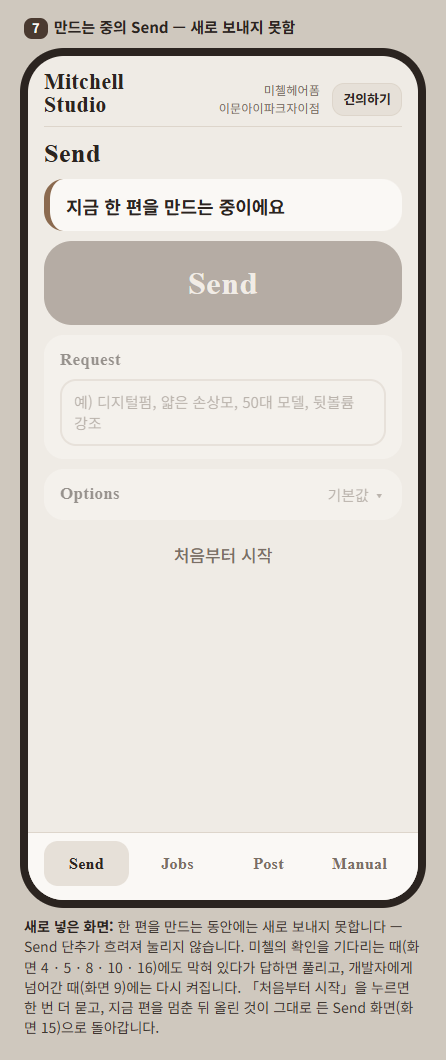
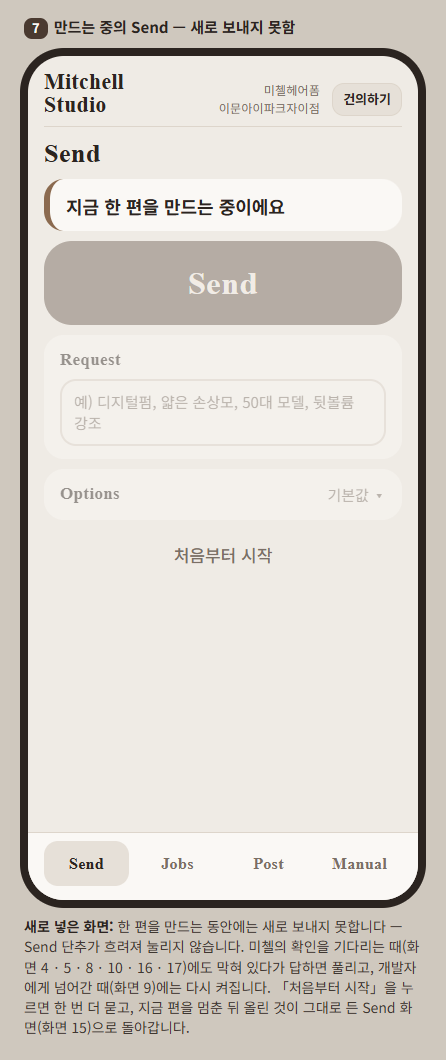
S8_UIUX_REWORK: 덧붙임 6 — 새 화면 17 '얼굴이 보이는 사진이 없을 때'(AI 얼굴 없이 갈게요 → · 더 보내기) · 확인을 기다리는 화면 목록에 17 · s17 · s07 · README · 반환

Changed region(s): [[0.0583, 0.9028, 0.9327, 0.9962]]

diff --git a/projects/btsr/roles/rsch/sub/s8_uiux_rework/UIUX_웹앱1차시안_3판_CLAUDE.html b/projects/btsr/roles/rsch/sub/s8_uiux_rework/UIUX_웹앱1차시안_3판_CLAUDE.html
@@ -31,7 +31,7 @@ svg { display:block; }
 .shot .hd .no { display:inline-block; background:var(--accent); color:var(--onaccent); border-radius:8px; padding:1px 8px; margin-right:6px; font-size:13px; }
 .shot .ft { font-size:14px; color:#3f3731; margin:8px 4px 0; min-height:66px; }
 .shot .ft b { color:var(--ink); }
-/* 한 화면만 보기: 주소 끝에 #s1 … #s16 */
+/* 한 화면만 보기: 주소 끝에 #s1 … #s17 */
 body:has(.shot:target) .top, body:has(.shot:target) .shot:not(:target) { display:none; }
 body:has(.shot:target) .grid { display:block; padding:16px 20px 20px; }
 
@@ -297,7 +297,7 @@ ol.scr7 { margin:0; padding-left:22px; display:flex; flex-direction:column; gap:
     <div class="btn line">처음부터 시작</div>
   </div>
   <div class="tabs"><span class="on">Send</span><span>Jobs</span><span>Post</span><span>Manual</span></div></div>
-  <div class="ft"><b>새로 넣은 화면:</b> 한 편을 만드는 동안에는 새로 보내지 못합니다 — Send 단추가 흐려져 눌리지 않습니다. 미첼의 확인을 기다리는 때(화면 4 · 5 · 8 · 10 · 16)에도 막혀 있다가 답하면 풀리고, 개발자에게 넘어간 때(화면 9)에는 다시 켜집니다. 「처음부터 시작」을 누르면 한 번 더 묻고, 지금 편을 멈춘 뒤 올린 것이 그대로 든 Send 화면(화면 15)으로 돌아갑니다.</div>
+  <div class="ft"><b>새로 넣은 화면:</b> 한 편을 만드는 동안에는 새로 보내지 못합니다 — Send 단추가 흐려져 눌리지 않습니다. 미첼의 확인을 기다리는 때(화면 4 · 5 · 8 · 10 · 16 · 17)에도 막혀 있다가 답하면 풀리고, 개발자에게 넘어간 때(화면 9)에는 다시 켜집니다. 「처음부터 시작」을 누르면 한 번 더 묻고, 지금 편을 멈춘 뒤 올린 것이 그대로 든 Send 화면(화면 15)으로 돌아갑니다.</div>
 </div>
 
 <!-- ───────── 7 막힘 ① ───────── -->
@@ -526,6 +526,32 @@ ol.scr7 { margin:0; padding-left:22px; display:flex; flex-direction:column; gap:
   </div>
   <div class="tabs"><span>Send</span><span class="on">Jobs<span class="badge">1</span></span><span>Post</span><span>Manual</span></div></div>
   <div class="ft"><b>새로 넣은 화면:</b> 원고를 다 쓰면 미첼이 읽고 고릅니다 — 차례로는 화면 3과 4 사이의 걸음입니다. 「이 원고로 갈게요 →」면 이어서 만들고, 「고칠 점 적기」면 원고를 고쳐 다시 보여 줍니다. 원고 아래 숫자는 글자 수입니다.</div>
+</div>
+
+<!-- ───────── 17 얼굴이 보이는 사진이 없을 때 ───────── -->
+<div class="shot" id="s17">
+  <div class="hd"><span class="no">17</span>얼굴이 보이는 사진이 없을 때</div>
+  <div class="phone"><div class="scr">
+    <div class="brand"><div class="wm">Mitchell<br>Studio</div><div class="br">미첼헤어폼<br>이문아이파크자이점</div><span class="fbk">건의하기</span></div>
+    <div class="jt"><span class="ti">디지털펌 · 뒷볼륨</span><span class="gear">옵션 바꾸기</span></div>
+    <div class="nowband w">
+      <div class="l1">확인해 주세요</div>
+      <div class="barw"><div class="barf" style="width:22%"></div></div>
+      <div class="pg"><span class="eh">Intake</span><span>2 / 9</span></div>
+    </div>
+    <div class="card">
+      <div class="thumbs" style="margin-top:0">
+        <div class="th"><svg viewBox="0 0 90 160" preserveAspectRatio="xMidYMid slice"><use href="#p-after"/></svg><i>시술 후</i></div>
+        <div class="th"><svg viewBox="0 0 90 160" preserveAspectRatio="xMidYMid slice"><use href="#p-after"/></svg><i>시술 후</i></div>
+        <div class="th"><svg viewBox="0 0 90 160" preserveAspectRatio="xMidYMid slice"><use href="#p-before"/></svg><i>시술 전</i></div>
+        <div class="th none"><i>얼굴 사진<br>없음</i></div>
+      </div>
+      <div style="font-size:18px;font-weight:700;margin-top:8px">얼굴이 보이는 시술 후 사진이 없어요</div>
+      <div class="row"><div class="btn" style="flex:1.9;font-size:16px;padding:13px 6px">AI 얼굴 없이 갈게요 →</div><div class="btn soft" style="font-size:16px;padding:13px 6px">더 보내기</div></div>
+    </div>
+  </div>
+  <div class="tabs"><span>Send</span><span class="on">Jobs<span class="badge">1</span></span><span>Post</span><span>Manual</span></div></div>
+  <div class="ft"><b>새로 넣은 화면:</b> 시술 후 사진이 뒷모습뿐이면 웹앱은 앞모습을 지어내지 않고 미첼에게 알립니다. 「AI 얼굴 없이 갈게요 →」면 AI 얼굴 장면과 AI 표시 없이 만들고 화면 5는 건너뜁니다. 「더 보내기」로 얼굴이 보이는 사진을 더하면 AI 얼굴을 만들어 화면 5에서 확인받습니다. 차례로는 화면 4와 같은 자리(자료를 받은 바로 뒤)입니다.</div>
 </div>
 
 </div>

diff --git a/projects/btsr/roles/rsch/sub/s8_uiux_rework/반환.md b/projects/btsr/roles/rsch/sub/s8_uiux_rework/반환.md
@@ -1,7 +1,7 @@
 # 반환 — MITCHELL_STUDIO/BTSR/RSCH/S8_UIUX_REWORK
 
-- 쓴 때: 2026-11-21 15:04 KST · 덧붙임 2를 넣어 고친 때: 2026-11-21 15:17 KST · 덧붙임 3을 넣어 고친 때: 2026-11-21 15:32 KST · 덧붙임 4를 넣어 고친 때: 2026-11-21 15:38 KST · 덧붙임 5를 넣어 고친 때: 2026-11-21 15:43 KST · 연 이: PRIMARY Paseo a97bebab · 패킷: `OPEN_PACKET.md`(8bd51fa · 덧붙임 d069374 · 덧붙임 2 ed67f92 · 덧붙임 3 7c55ad5 · 덧붙임 4 5363184 · 덧붙임 5 2b3b203)
-- 낸 것: `UIUX_웹앱1차시안_3판_CLAUDE.html`(화면 16개 · `#s1`…`#s16`) · `s01.png`–`s16.png` · `README.md` · 이 글
+- 쓴 때: 2026-11-21 15:04 KST · 덧붙임 2를 넣어 고친 때: 2026-11-21 15:17 KST · 덧붙임 3을 넣어 고친 때: 2026-11-21 15:32 KST · 덧붙임 4를 넣어 고친 때: 2026-11-21 15:38 KST · 덧붙임 5를 넣어 고친 때: 2026-11-21 15:43 KST · 덧붙임 6을 넣어 고친 때: 2026-11-21 16:18 KST · 연 이: PRIMARY Paseo a97bebab · 패킷: `OPEN_PACKET.md`(8bd51fa · 덧붙임 d069374 · 덧붙임 2 ed67f92 · 덧붙임 3 7c55ad5 · 덧붙임 4 5363184 · 덧붙임 5 2b3b203 · 덧붙임 6 13a45dd)
+- 낸 것: `UIUX_웹앱1차시안_3판_CLAUDE.html`(화면 17개 · `#s1`…`#s17`) · `s01.png`–`s17.png` · `README.md` · 이 글
 - 바탕: 시안 2판(`sub/s6_uiux_draft/v2/` — 고치지 않음) · 지금 웹앱 `app/webapp/static/app.html`(제품 저장소 로컬 `origin/main` 3072e7e를 `git show`로만 봄)
 - 커밋: 첫 판 29cd237(화면 13개) → 덧붙임을 넣은 판 fc31856(화면 14개) → 덧붙임 2를 넣은 판(화면 2 · 3 · 10만 고침 · 번호 그대로)이 그 다음 커밋
 
@@ -14,6 +14,7 @@
 | 3 | "보내기가 아니고 Send로 해주세요." | 큰 단추 `Send`. 카드 머리 '다 됨'은 뺌(화면 10 · 11은 바 아래 `Done`). 한글 견줘 보기 뺌. |
 | 4 | "작업 목록 없습니다. 하나씩만하세요. 진행중엔 그냥 프로그레스 바" | 작업 목록 화면 뺌. Jobs = 지금 만드는 한 편. 만드는 중 = 제목 · 하는 일 한 줄 · 바 · 바 아래 단계 이름과 몇째(예: `Voice · Music · Fit · Export` 7 / 9). 진행 기록 · 단계 줄은 모든 화면에서 뺌. 확인이 필요하면 같은 화면에 물음 한 줄 + 단추. |
 | 5 | "도대체 알림 설명화면은 왜 있는건가요?" · 14:59:10 "알림 설정은 따로 메뉴얼로 빼시고요." | 알림 화면 뺌. 화면 밖 설명과 README에 "알림 켜는 법은 Manual 탭" 한 줄. |
+| 덧붙임 6 | 16:14:32 "안올렸으면 알려주기만 하고 확인 받으면 ai 얼굴없이 진행하는게 맞지 않나요" (PRIMARY 패킷 덧붙임 6 · 요청서 003 24번) | **화면 17 '얼굴이 보이는 사진이 없을 때'를 새로 넣음** — 화면 4와 같은 꼴 · 같은 바 자리(`Intake` 2 / 9): 제목 줄 · 현황 「확인해 주세요」 + 바 · 올린 것 작은 그림(시술 후 둘 · 시술 전 하나 · 점선 칸 '얼굴 사진 없음') · 한 줄 「얼굴이 보이는 시술 후 사진이 없어요」 · 단추 「AI 얼굴 없이 갈게요 →」(주)와 「더 보내기」. 화면 속 설명 글 없음. Jobs 탭 빨간 숫자 1. 밖 설명은 패킷 글대로(앞모습을 지어내지 않음 · AI 얼굴 장면과 AI 표시 없이 만들고 화면 5를 건너뜀 · 더 보내면 화면 5에서 확인 · 화면 4와 같은 자리). 화면 7의 밖 설명과 README의 확인을 기다리는 화면 목록을 4 · 5 · 8 · 10 · 16 · 17로. `s17` 찍고 `s07` 다시 찍음. README에 여덟째 줄과 화면 17 그림 줄. 앞 화면 번호(1 – 16)는 그대로. |
 | 덧붙임 5 | 15:27:23 "변경된 기획에 맞춰 시안도 수정요청 하세요." (PRIMARY 패킷 덧붙임 5 · 요구 2.2판 R2.5 · 결정 19 · 요청서 003 19번 라) | **화면 16 '원고 확인'을 새로 넣음** — 화면 5 · 10의 확인 화면 꼴: 제목 줄 · 현황 「확인해 주세요」 + 바(`Script` 3 / 9) · 원고 칸(번호 붙은 일곱 줄 — 지어낸 예시 · 그 아래 글자 수 `85글자`) · 단추 「이 원고로 갈게요 →」(주)와 「고칠 점 적기」. 화면 속 설명 글 없음. Jobs 탭 빨간 숫자 1. 밖 설명에 '차례로는 화면 3과 4 사이'. 화면 7의 밖 설명에서 확인을 기다리는 화면 목록을 4 · 5 · 8 · 10 · 16으로. `s16` 찍고 `s07` 다시 찍음. README에 일곱째 줄과 화면 16 그림 줄. 앞 화면 번호(1 – 15)는 그대로. |
 | 덧붙임 4 | 15:34:04 "그만두기가 아니라 처음부터 하기로 해야 되지 않을까요" · 15:35:45 "네" (PRIMARY 패킷 덧붙임 4 · 요청서 003 18번) | **화면 7:** 「처음부터 시작」 단추를 넣음 — 맨 아래에 글만 있는 가장 약한 꼴(지금 웹앱의 「그만 보내기」와 같은 꼴)로, 잘못 누르지 않게. Send 단추는 흐린 채 그대로. 밖 설명에 '누르면 한 번 더 묻고 · 지금 편을 멈추고 · 올린 것이 그대로 든 Send 화면(화면 15)으로' 한 줄. **화면 9:** 그림 그대로. 밖 설명을 '바로 다시 만듦'에서 'Send 화면으로 돌아감 · 올린 자료와 요청 글 그대로'로 고침. **화면 15(새로):** 켜진 Send 단추 · 올린 것 작은 그림 줄(영상 1 · 사진 3 · 그림마다 × · 끝에 + 칸) · 글이 든 Request · Options. 새 설명 글 없음. 한 번 더 묻는 창은 그리지 않음. `s07` · `s09` · `s15` 찍음. README 여섯째 줄을 18번에 맞춰 고치고 화면 15 그림 줄을 더함. 앞 화면 번호(1 – 14)는 그대로. |
 | 덧붙임 3 | 15:27:23 "변경된 기획에 맞춰 시안도 수정요청 하세요." · 15:17:53 "…미첼이 재작업을 할수 있어야지요…" · 15:18:31 "처음부터 시작이라던지요" (PRIMARY 패킷 덧붙임 3 · 요청서 003 16번) | 화면 9에 「처음부터 시작」 단추를 넣음 — 진한 주 단추로 위에, 「여기까지 만든 것 보기」는 옅게 아래에 그대로. 화면 속 설명 글은 더하지 않음. 화면 9 밖 설명을 16번에 맞춤('개발자가 본 뒤 멈춘 곳부터 이어 만듭니다'를 빼고 → 처음부터 다시 만듦 · Send 다시 켜짐 · 새로 보내면 멈춘 편은 미첼 화면에서 빠짐 · 개발자는 까닭만 봄). 화면 7 밖 설명에 '확인을 기다리는 때(화면 4 · 5 · 8 · 10)에도 막힘 · 답하면 풀림 · 개발자에게 넘어간 때(화면 9)는 다시 켜짐'을 넣고 '그 한 편이 끝나면 다시 켜집니다'는 뺌. `s09` · `s07` 다시 찍음(화면 7은 화면 그림은 그대로이고 그림에 함께 찍히는 밖 설명만 바뀜). README 바꾼 것에 여섯째 줄. |
@@ -22,8 +23,8 @@
 
 ## 뺀 화면 · 번호
 
-2판 6(작업 목록) · 8(휴대폰 알림) · 맨 아래 한글 견줘 보기(`s01_ko` · `s07_ko`)를 뺌. 화면 7 · 15 · 16은 새로 넣음.
-2판 → 3판: 1→1 · 2→2 · 3→3 · 4→4 · 5→5 · 7→6 · (새) 7 · 9→8 · 10→9 · 11→10 · 12→11 · 13→12 · 14→13 · 15→14 · (새) 15 · (새) 16(차례로는 3과 4 사이).
+2판 6(작업 목록) · 8(휴대폰 알림) · 맨 아래 한글 견줘 보기(`s01_ko` · `s07_ko`)를 뺌. 화면 7 · 15 · 16 · 17은 새로 넣음.
+2판 → 3판: 1→1 · 2→2 · 3→3 · 4→4 · 5→5 · 7→6 · (새) 7 · 9→8 · 10→9 · 11→10 · 12→11 · 13→12 · 14→13 · 15→14 · (새) 15 · (새) 16(차례로는 3과 4 사이) · (새) 17(차례로는 4와 같은 자리).
 
 ## 남긴 ? 표 셋과 풀이
 
@@ -52,17 +53,20 @@
 - 화면 5의 물음을 "머리 색과 모양이 같은가요?"로 — 2판 "…같은지 봐 주세요"를 물음 꼴로만 바꿈.
 - 화면 11 · 14 시트의 작은 「보내기」 단추는 지금 웹앱 그대로 둠(큰 단추만 Send). Send로 하라 하시면 바꿈.
 - Request 칸의 예시 글은 지금 웹앱 그대로 남기고, 옆의 "요청 사항 (안 적어도 돼요)"는 뺌.
-- Jobs 탭의 빨간 숫자는 미첼이 확인할 것이 있는 화면에만 1(화면 4 · 5 · 8 · 10 · 16).
+- Jobs 탭의 빨간 숫자는 미첼이 확인할 것이 있는 화면에만 1(화면 4 · 5 · 8 · 10 · 16 · 17).
 - 화면 9의 둘째 줄 "장면을 이어 붙이지 못했어요" · 화면 13의 "의견으로 받아 두었어요"는 현황으로 보고 남김.
 
 ## 확인하지 않은 것
 
 - 그림은 윈도우의 화면 없는 Chrome(446×1060)으로 찍음. 아이폰 사파리에서 보지 않음 — 글꼴이 다르게 보일 수 있음.
-- 첫 판 13개 그림은 모두 눈으로 봄(넘침 · 겹침 없음). 덧붙임 뒤 다시 찍은 14개 가운데는 새 화면 7과 끝 화면 14만 다시 봄 — 나머지는 번호만 바뀜. 덧붙임 2로 다시 찍은 셋(`s02` · `s03` · `s10`)과 덧붙임 3으로 다시 찍은 둘(`s07` · `s09`) · 덧붙임 4로 찍은 셋(`s07` · `s09` · `s15`) · 덧붙임 5로 찍은 둘(`s16` · `s07`)은 모두 봄. HTML을 넓은 창에서 한꺼번에 펼친 꼴은 찍어 보지 않음.
+- 첫 판 13개 그림은 모두 눈으로 봄(넘침 · 겹침 없음). 덧붙임 뒤 다시 찍은 14개 가운데는 새 화면 7과 끝 화면 14만 다시 봄 — 나머지는 번호만 바뀜. 덧붙임 2로 다시 찍은 셋(`s02` · `s03` · `s10`)과 덧붙임 3으로 다시 찍은 둘(`s07` · `s09`) · 덧붙임 4로 찍은 셋(`s07` · `s09` · `s15`) · 덧붙임 5로 찍은 둘(`s16` · `s07`) · 덧붙임 6으로 찍은 둘(`s17` · `s07`)은 모두 봄. HTML을 넓은 창에서 한꺼번에 펼친 꼴은 찍어 보지 않음.
 - 'n / 9'는 지금 웹앱의 단계 아홉(Send · Intake · Script · Face · Edit · Preview · Voice… · Done · Post)을 센 것. 바가 실제로 어떻게 차는지(단계마다 한 칸인지 · 단계 안에서도 움직이는지)는 정해진 바 없음.
 - 화면 12 · 13의 바에는 단계 이름 · 몇째를 적지 않음 — 고쳐 만들 때 · 규격을 맞출 때 바가 어디서부터 차는지 정해진 바 없음.
 - (덧붙임 3 · 4로 정해짐) 확인을 기다리는 때에는 Send가 막히고, 개발자에게 넘어간 때에는 다시 켜짐. 「처음부터 시작」 뒤는 화면 15. 개발자에게 넘어간 때 그냥 Send 탭을 눌러 본 화면(멈춘 편의 자료가 들어 있는지 · 비어 있는지)은 정해진 바 없어 그리지 않음.
 - 화면 15의 올린 것 꼴: 지금 웹앱에는 '고른 뒤 미리 보는' 꼴이 없음(고르면 바로 보내고, 보내는 중에는 파일 이름 · 크기 · 바 줄만 있음 — `app.html` `drawList`). 그래서 패킷대로 가장 단순한 작은 그림 줄 + × 로 그림. 더하는 길로 끝에 + 칸을 둔 것은 내 읽기('빼고 더해 다시 보낸다'에서) — Send 단추가 이 화면에서 '사진 고르기'가 아니라 '이대로 보내기'가 되는 것도 같은 읽기.
+- 화면 17: 단추 줄은 글이 긴 주 단추를 왼쪽에 넓게 둠(화면 5 · 16의 꼴) — 화면 4는 주 단추가 오른쪽이라 자리가 다름. 넷째 작은 그림 칸의 글 '얼굴 사진 없음'은 화면 4의 '시술 전 없음' 칸에 맞춘 것(내 읽기).
+- 화면 3 · 4의 밖 설명('AI 얼굴 사진을 안 올려도 묻지 않음' · 'AI 얼굴은 여기서도 묻지 않습니다')은 얼굴이 보이는 사진이 있을 때의 이야기로 그대로 둠 — 덧붙임 6이 건드리라 하지 않아 고치지 않았으나, 화면 17과 나란히 읽으면 헷갈릴 수 있음.
+- 시술 전 사진도 없고 얼굴이 보이는 사진도 없을 때 두 물음이 어떤 차례로 나오는지는 정해진 바 없어 그리지 않음.
 - 화면 16의 원고 꼴: 지금 웹앱의 원고 확인 칸(번호 붙은 줄 목록 + 글자 수 — `app.html` 577–581줄)을 따름. 지금 웹앱에 있는 설명 글 둘("마지막 줄 = 썸네일 문구 3개" · "공백·문장부호 빼고 센 글자 수 …")은 화면 속 설명이라 넣지 않았고, 그래서 **썸네일 문구 줄도 그리지 않음** — 원고 끝에 썸네일 문구 줄이 그대로 붙는지 · 붙으면 ? 표로 풀이를 달지는 정해진 바 없음. 글자 수는 지금 웹앱처럼 공백 · 문장부호를 빼고 센 값(85)이고, 상한(`/N`)은 정해진 값을 몰라 적지 않음.
 - 화면 16의 원고 일곱 줄은 지어낸 예시(손님 · 가게 사실 없음).
 - 화면 16에서 「고칠 점 적기」를 누른 뒤의 창은 그리지 않음(화면 11과 같은 꼴로 봄 — 내 읽기).

diff --git a/projects/btsr/roles/rsch/sub/s8_uiux_rework/README.md b/projects/btsr/roles/rsch/sub/s8_uiux_rework/README.md
@@ -8,9 +8,10 @@
 4. 작업 목록을 없앴습니다 — Jobs에는 지금 만드는 한 편만, 만드는 중에는 하는 일 한 줄과 **프로그레스 바**만 보입니다(결과 칸도 없음). 만드는 동안에는 새로 보내지 못합니다(화면 7).
 5. 알림 설명 화면을 뺐습니다 — 알림 켜는 법은 Manual 탭의 일입니다.
 6. **「처음부터 시작」** 단추를 넣었습니다 — 개발자에게 넘어간 화면(화면 9)과 막힌 Send 화면(화면 7)에. 누르면 한 번 더 묻고 Send 화면으로 돌아가며, 올린 사진 · 영상과 요청 글은 그대로 들어 있습니다(화면 15).
-7. **원고 확인** 화면을 더했습니다(화면 16) — 차례로는 화면 3과 4 사이의 걸음입니다. 미첼의 확인을 기다리는 화면은 4 · 5 · 8 · 10 · 16입니다.
+7. **원고 확인** 화면을 더했습니다(화면 16) — 차례로는 화면 3과 4 사이의 걸음입니다. 미첼의 확인을 기다리는 화면은 4 · 5 · 8 · 10 · 16 · 17입니다.
+8. **얼굴이 보이는 사진이 없을 때** 화면을 더했습니다(화면 17) — 웹앱은 앞모습을 지어내지 않고 미첼에게 알리며, 미첼이 확인하면 AI 얼굴 없이 만듭니다. 차례로는 화면 4와 같은 자리입니다.
 
-화면은 16개입니다(2판에서 둘을 빼고 화면 7 · 15 · 16을 새로 넣음). 그림 속 작업 · 글 · 사람은 모두 지어낸 예시입니다.
+화면은 17개입니다(2판에서 둘을 빼고 화면 7 · 15 · 16 · 17을 새로 넣음). 그림 속 작업 · 글 · 사람은 모두 지어낸 예시입니다.
 
 ![화면 1](s01.png)
 
@@ -43,3 +44,5 @@
 ![화면 15](s15.png)
 
 ![화면 16](s16.png)
+
+![화면 17](s17.png)
